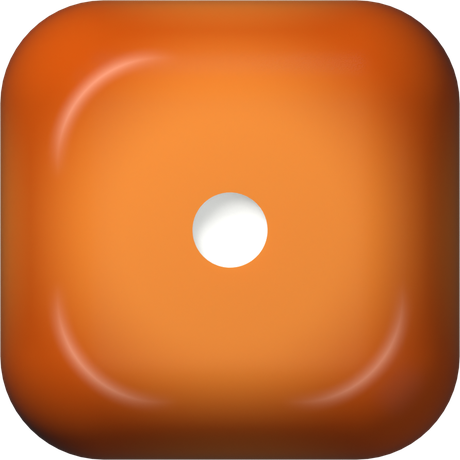
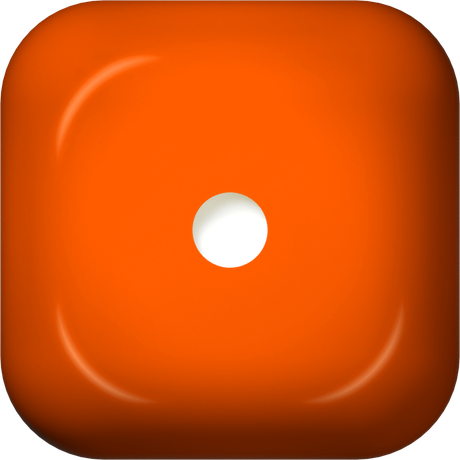
Add purple and yellow dice artwork assets and adjust die sizing in game screen

diff --git a/shared/src/commonMain/kotlin/com/masterdice/ui/GameScreen.kt b/shared/src/commonMain/kotlin/com/masterdice/ui/GameScreen.kt
@@ -165,8 +165,10 @@ fun GameScreen(
         val boardH = boardW * BOARD_ASPECT
         // One cell = one artwork well (500px of the 2367px-wide image).
         val cell = boardW * (BOARD_WELL_PX / 2367f)
-        // Dice fill their wells exactly — grid and tray share one size.
-        val dieSize = cell
+        // Dice sized just past the well edge so the rounded die covers the
+        // well's baked shadow rim — reads as seated, with no visible gap.
+        // Grid and tray share one size.
+        val dieSize = cell * 1.024f
 
         Column(
             modifier = Modifier
@@ -949,8 +951,7 @@ private fun BoxScope.GuessRow(
                 x = colX[3] + (cell - enterSize) / 2,
                 y = rowTop + (cell - enterSize) / 2,
             )
-            .size(enterSize)
-            .border(2.dp, MasterDiceColors.SubmittedPanelBorder, WellShape),
+            .size(enterSize),
         contentAlignment = Alignment.Center,
     ) {
         when {
